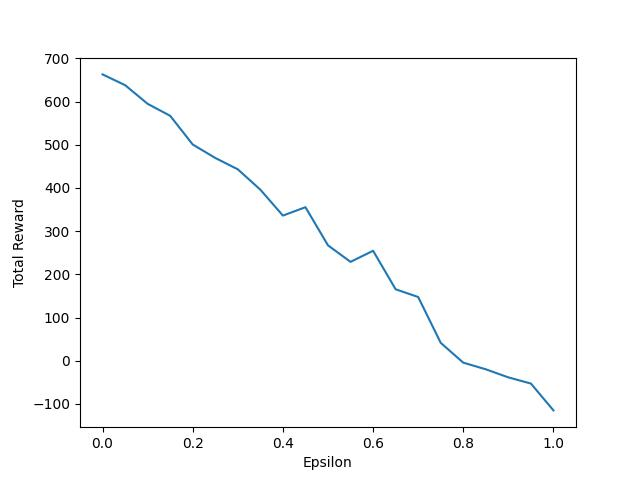
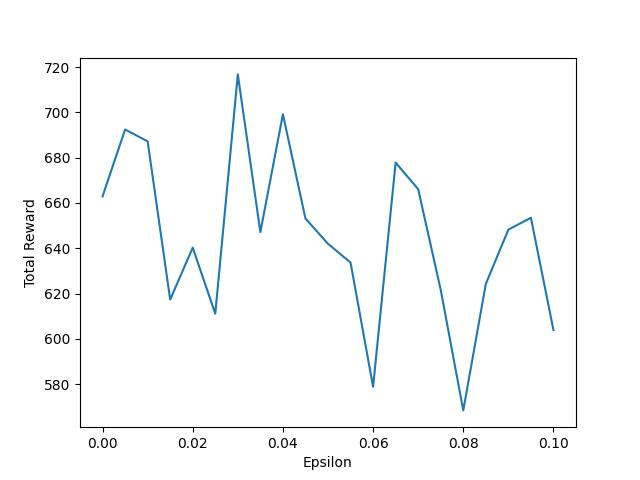
scatter plot

diff --git a/k_bandit_changing_eps.py b/k_bandit_changing_eps.py
@@ -41,7 +41,7 @@ def run_bandits(n_steps, eps):
 if __name__ == '__main__':
     rnd.seed(42)
     init_bandits()
-    eps_list = np.arange(0.0, 1.05, 0.05)
+    eps_list = np.arange(0.000, 0.105, 0.005)
     avg_rewards = []
     total_rewards = []
     print(f"{'Eps':<7}{'Average rewards':<20}{'Total rewards':<20}")
@@ -50,10 +50,10 @@ if __name__ == '__main__':
             avg_reward, total_reward = run_bandits(1000, eps)
             avg_rewards.append(avg_reward)
             total_rewards.append(total_reward)
-            print(f"{eps:<7.2f}{avg_reward:<20.2f}{total_reward:<20.2f}")
+            print(f"{eps:<7.3f}{avg_reward:<20.3f}{total_reward:<20.3f}")
 
-    plt.plot(eps_list, total_rewards)
+    plt.scatter(eps_list, total_rewards)
     plt.xlabel('Epsilon')
     plt.ylabel('Total Reward')
-    plt.savefig("plot.jpg")
+    plt.savefig("rew_vs_eps.jpg")
     plt.show()
